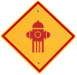
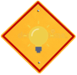
Reactorizacòn en el over de los iconos dentro del mapview

Changed region(s): [[0.3117, 0.2667, 0.6753, 0.72], [0.3636, 0.5867, 0.3896, 0.6133]]

diff --git a/src/app/app.module.ts b/src/app/app.module.ts
@@ -43,6 +43,7 @@ import { MaterialButtonComponent } from './components/material-button/material-b
 import { MaterialBtnListComponent } from './components/material-btn-list/material-btn-list.component';
 import { CommentComponent } from './components/comment/comment.component';
 import { CommentReplyComponent } from './components/comment-reply/comment-reply.component';
+import { EditUserComponent } from './components/edit-user/edit-user.component';
 
 @NgModule({
   declarations: [
@@ -67,7 +68,8 @@ import { CommentReplyComponent } from './components/comment-reply/comment-reply.
     MaterialButtonComponent,
     MaterialBtnListComponent,
     CommentComponent,
-    CommentReplyComponent
+    CommentReplyComponent,
+    EditUserComponent
   ],
   imports: [
     HttpModule,

diff --git a/src/app/data/pub-icons-over.ts b/src/app/data/pub-icons-over.ts
@@ -1,17 +1,17 @@
 export default [
     {
         type_id:'MTOP',
-        icon: '/assets/images/queja/mlink2.png'
+        icon: '/assets/images/queja/mlink1.png'
     },
     {
         type_id:'EMAPAR',
-        icon: '/assets/images/queja/mlink4.png'
+        icon: '/assets/images/queja/mlink2.png'
     },
     {
         type_id:'MSP',
-        icon: '/assets/images/queja/mlink1.png'
+        icon: '/assets/images/queja/mlink3.png'
     },{
         type_id:'EERSA',
-        icon: '/assets/images/queja/mlink1.png'
+        icon: '/assets/images/queja/mlink4.png'
     }
 ]

diff --git a/src/app/components/map-view/map-view.component.ts b/src/app/components/map-view/map-view.component.ts
@@ -199,7 +199,7 @@ export class MapViewComponent implements OnInit {
    * */
   defineTypeIconOver(typeId) {
     for (let typeIconOver of pubIconsOver) {
-      if (typeIconOver.type_id == typeId.id) {
+      if (typeIconOver.type_id == typeId.description) {
         return typeIconOver.icon;
       }
     }
